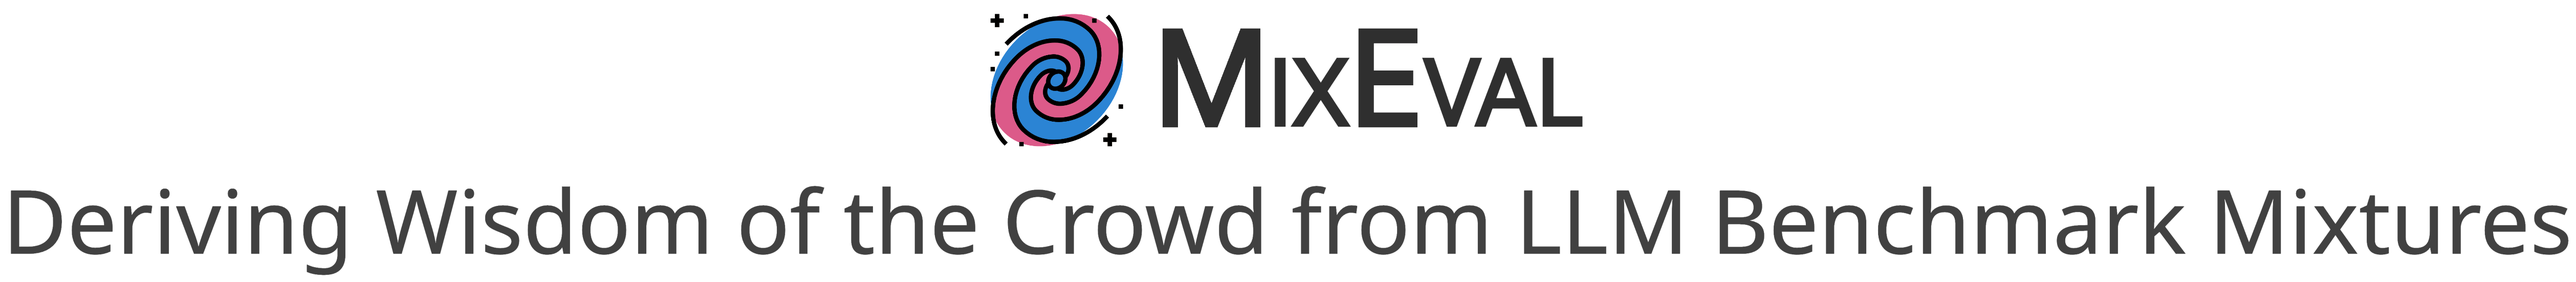
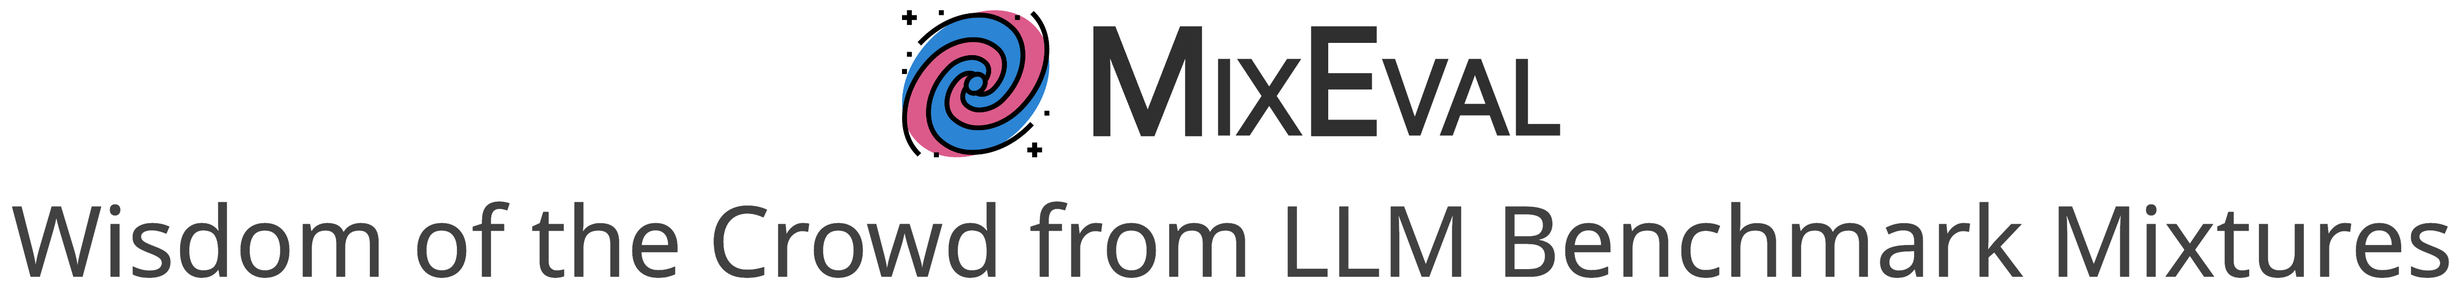
first commit

Changed region(s): [[0.0, 0.6467, 0.9983, 0.9855], [0.3432, 0.0308, 0.6552, 0.5543]]

diff --git a/README.md b/README.md
@@ -204,7 +204,7 @@ If you found this repository useful, please consider 📑**citing**:
 
 ```
 @article{ni2024mixeval,
-        title={MixEval: Deriving Wisdom of the Crowd from LLM Benchmark Mixtures},
+        title={MixEval: Wisdom of the Crowd from LLM Benchmark Mixtures},
         author={Jinjie Ni and Fuzhao Xue and Xiang Yue and Yuntian Deng and Mahir Shah and Kabir Jain and Graham Neubig and Yang You},
         journal={arXiv preprint arXiv:[placeholder]},
         year={2024}
